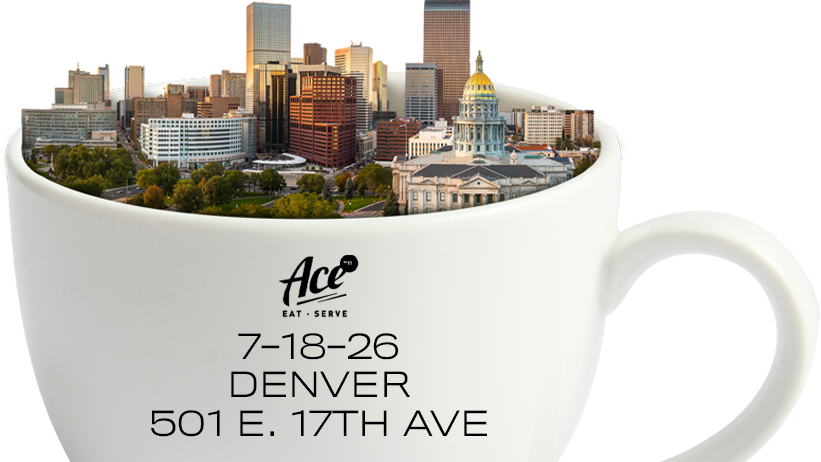
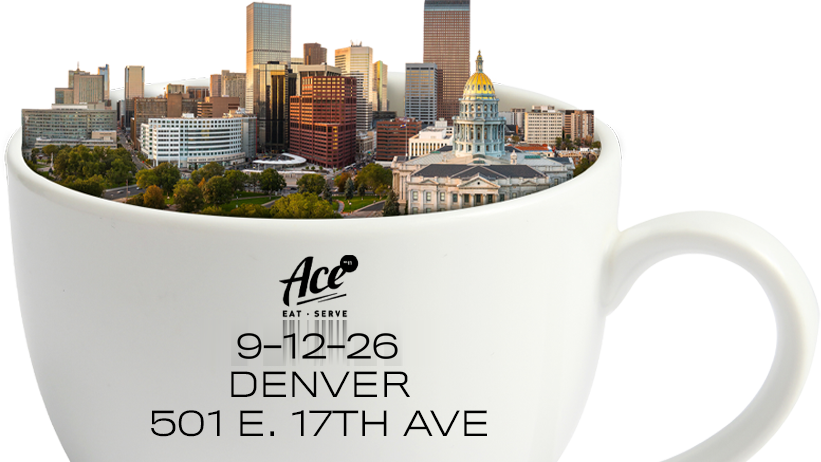
September update pre asset delivery

Changed region(s): [[0.2741, 0.697, 0.4872, 0.7879]]

diff --git a/src/components/SplashPage.jsx b/src/components/SplashPage.jsx
@@ -44,9 +44,9 @@ function CupCut() {
     <img
       className="cup-cut"
       src={cupCutImg}
-      alt="A coffee cup with the Denver skyline — Ace Eat·Serve, July 18 2026"
-      width="696"
-      height="522"
+      alt="A coffee cup with the Denver skyline — Ace Eat·Serve, September 12 2026"
+      width="821"
+      height="462"
       loading="eager"
     />
   );
@@ -83,7 +83,7 @@ function HeroWordmark() {
     <img
       className="hero-wordmark"
       src={wordmarkImg}
-      alt="Beats &amp; Blends — Denver"
+      alt="Beats & Blends — Denver"
       width="580"
       height="160"
       loading="eager"
@@ -98,7 +98,7 @@ function CTAButton({ onClick }) {
       className="cta-button"
       onClick={onClick}
       type="button"
-      aria-label="Buy tickets for Beats &amp; Blends"
+      aria-label="Buy tickets for Beats & Blends"
     >
       BUY TICKETS
     </button>
@@ -158,9 +158,10 @@ function SocialLinks() {
 }
 
 const SET_TIMES = [
-  { time: '10:00 – 11:00 AM', artist: 'RANMA' },
-  { time: '11:00 AM – 12:30 PM', artist: 'PLURTHLINGS' },
-  { time: '12:30 – 2:00 PM', artist: 'NOA SAITOSHII' },
+  { time: '9:00 – 10:00 AM', artist: 'Yoga With\nGina Turner' },
+  { time: '10:00 – 11:30 AM', artist: 'TBA' },
+  { time: '11:30 AM – 1:00 PM', artist: 'TBA' },
+  { time: '1:00 – 3:00 PM', artist: 'GINA TURNER' },
 ];
 
 function Lineup() {
@@ -169,9 +170,16 @@ function Lineup() {
       <h2 className="lineup__heading">Set Times</h2>
       <ul className="lineup__list">
         {SET_TIMES.map(({ time, artist }) => (
-          <li className="lineup__row" key={artist}>
+          <li className="lineup__row" key={time}>
             <span className="lineup__time">{time}</span>
-            <span className="lineup__artist">{artist}</span>
+            <span className="lineup__artist">
+              {artist.split('\n').map((line, i, lines) => (
+                <span key={line}>
+                  {line}
+                  {i < lines.length - 1 && <br />}
+                </span>
+              ))}
+            </span>
           </li>
         ))}
       </ul>
@@ -205,8 +213,8 @@ export default function SplashPage() {
         <BotefamPresents />
         <HeroWordmark />
         <CTAButton onClick={openModal} />
-        <Lineup />
         <SocialLinks />
+        <Lineup />
       </div>
 
       {/* Ticket modal — rendered only when open */}

diff --git a/src/components/SplashPage.css b/src/components/SplashPage.css
@@ -83,14 +83,14 @@
   display: flex;
   flex-direction: column;
   align-items: center;
-  padding: 0 20px 50vh;
+  padding: 0 20px max(0px, calc(50vh - 190px));
 }
 
 @media (min-width: 1024px) {
   .content-layer {
     max-width: 760px;
     margin: 0 auto;
-    padding: 0 0 45vh;
+    padding: 0 0 max(0px, calc(45vh - 100px));
   }
 }
 
@@ -109,7 +109,7 @@
   .botefam-presents {
     width: 380px;
     margin-top: 0;
-    padding-top: 6vh;
+    padding-top: 1vh;
   }
 }
 
@@ -128,7 +128,7 @@
   .hero-wordmark {
     width: 580px;
     max-width: none;
-    margin-top: 8px;
+    margin-top: 4px;
   }
 }
 
@@ -165,7 +165,7 @@
     width: auto;
     height: auto;
     font-size: 16px;
-    margin-top: 28px;
+    margin-top: 14px;
     max-width: 280px;
   }
 }
@@ -185,11 +185,11 @@
   display: flex;
   flex-direction: column;
   align-items: center;
-  margin-top: 28px;
+  margin-top: 10px;
   width: 100%;
   max-width: 360px;
 
-  animation: fadeSlideIn 600ms ease-out 450ms both;
+  animation: fadeSlideIn 600ms ease-out 550ms both;
 }
 
 .lineup__heading {
@@ -199,7 +199,7 @@
   font-size: 20px;
   letter-spacing: 0.16em;
   text-transform: uppercase;
-  margin: 0 0 14px;
+  margin: 0 0 4px;
   text-shadow: 0 1px 8px rgba(0, 0, 0, 0.5);
 }
 
@@ -210,14 +210,14 @@
   width: 100%;
   display: flex;
   flex-direction: column;
-  gap: 10px;
+  gap: 8px;
 }
 
 .lineup__row {
   display: flex;
   flex-direction: column;
   align-items: center;
-  gap: 2px;
+  gap: 0px;
   text-align: center;
 }
 
@@ -257,8 +257,8 @@
   display: flex;
   flex-direction: column;
   align-items: center;
-  margin-top: 24px;
-  animation: fadeSlideIn 600ms ease-out 550ms both;
+  margin-top: 20px;
+  animation: fadeSlideIn 600ms ease-out 450ms both;
 }
 
 .social-links__heading {
@@ -268,8 +268,9 @@
   font-weight: 600;
   letter-spacing: 0.08em;
   text-transform: uppercase;
-  margin: 0 0 10px;
+  margin: 0 0 6px;
   opacity: 0.85;
+  text-shadow: 0 1px 6px rgba(0, 0, 0, 0.5);
 }
 
 .social-links__icons {
@@ -280,6 +281,7 @@
 .social-links__link {
   color: #ffffff;
   opacity: 0.8;
+  filter: drop-shadow(0 1px 6px rgba(0, 0, 0, 0.5));
   transition: opacity 150ms ease-out, transform 150ms ease-out;
 }
 

diff --git a/src/components/TicketModal.jsx b/src/components/TicketModal.jsx
@@ -9,7 +9,7 @@ import { useEffect, useRef, useState, useCallback } from 'react';
  * - Closing uses a short CSS animation before unmounting.
  * - Keyboard: Escape key closes the modal.
  */
-const TICKET_URL = 'https://app.rfidify.com/event/beats-n-blends-ace-july';
+const TICKET_URL = 'https://app.rfidify.com/event/bb3';
 const CLOSE_ANIMATION_MS = 150;
 
 export default function TicketModal({ onClose }) {
@@ -58,7 +58,7 @@ export default function TicketModal({ onClose }) {
       onClick={handleBackdropClick}
       role="dialog"
       aria-modal="true"
-      aria-label="Buy tickets for Beats &amp; Blends"
+      aria-label="Buy tickets for Beats & Blends"
     >
       <div className={`modal-container${containerClosingClass}`}>
         <button
@@ -74,7 +74,7 @@ export default function TicketModal({ onClose }) {
         <iframe
           className="modal-iframe"
           src={TICKET_URL}
-          title="Beats &amp; Blends ticket purchase"
+          title="Beats & Blends ticket purchase"
           allow="payment"
         />
       </div>
